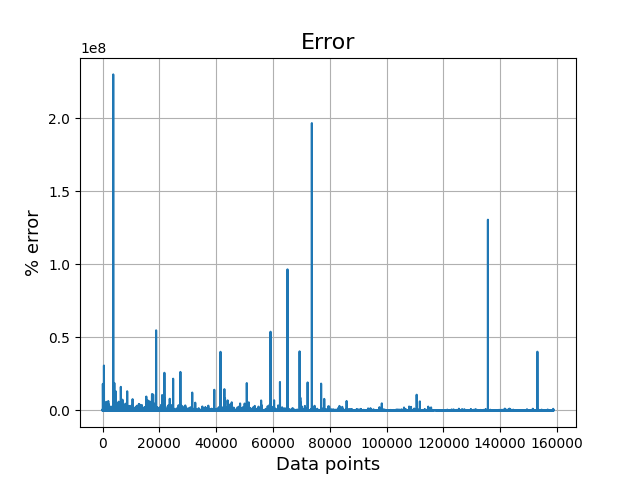
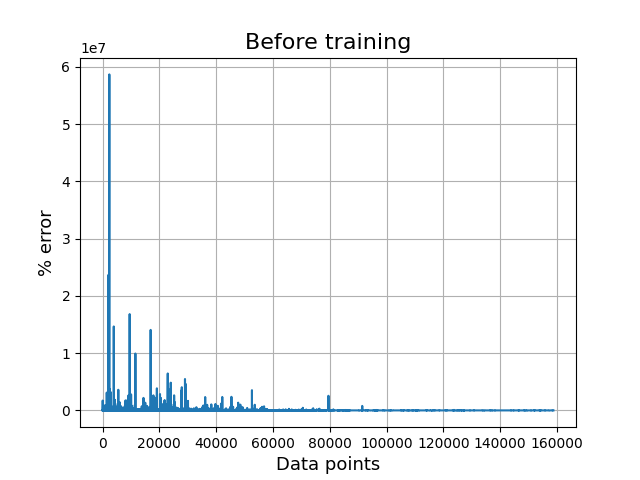
Fixed always printing "Testing neural network" issue

diff --git a/tools.py b/tools.py
@@ -296,7 +296,7 @@ class NeuralNetwork(torch.nn.Module):
 
     # Train neural network
     # Based on https://pytorch.org/tutorials/beginner/introyt/trainingyt.html ????? At least if it helps
-    def train_on_data(self, train_data: torch.Tensor, train_targets: torch.Tensor, epochs: int=100, lr: float=0.001) -> Union[torch.Tensor, int]:
+    def train_on_data(self, train_data: torch.Tensor, train_targets: torch.Tensor, epochs: int=100, lr: float=0.001, msg: str="Training neural network.......") -> Union[torch.Tensor, int]:
         '''
         Trains the neural network with the given training data and targets by:
         1. forward propagating an input feature through the network
@@ -308,6 +308,7 @@ class NeuralNetwork(torch.nn.Module):
         train_targets   : Size (N x 1) where N is the number of data points. The targets, price for each car.
         epochs          : Number of epochs that the training will run
         lr              : Learning rate
+        msg             : The printing message before the percent update
         
         output:
         loss_matrix     : Size (epochs) where the first value is the running loss after propagating through the whole train_data, the second value is the running loss after the second epoch etc.
@@ -375,7 +376,7 @@ class NeuralNetwork(torch.nn.Module):
                 # Print status for every whole percent
                 loop = n*epoch
                 if  loop % update_index == 0:
-                    print("{:.1f} %\r".format(100*loop/n_loops),end="Testing neural network........")
+                    print("{:.1f} %\r".format(100*loop/n_loops),end=msg)
 
             # End for n
             # Log running_loss to loss_matrix
@@ -393,7 +394,7 @@ class NeuralNetwork(torch.nn.Module):
 
     # Test neural network
     # Based on self.train_on_data()
-    def test_on_data(self, test_data: torch.Tensor, test_targets: torch.Tensor,eval_method: str = "MSE") -> torch.Tensor:
+    def test_on_data(self, test_data: torch.Tensor, test_targets: torch.Tensor,eval_method: str = "MSE", msg: str = "Testing neural network........") -> torch.Tensor:
         '''
         Tests the neural network with the given testing data and targets by:
         1. forward propagating test_data through the network
@@ -403,6 +404,7 @@ class NeuralNetwork(torch.nn.Module):
         test_data       : Size (N x D) where N is the number of data points and D is the number of dimensions. The training data.
         test_targets    : Size (N x 1) where N is the number of data points. The targets, price for each car.
         eval_method     : Which error evaluation method to use, options are "MSE" (for mean square) or "percent" for percent wise
+        msg             : The printing message before the percent update
         
         output:
         loss_matrix     : Size (N) where N is the number of data points and each value is the error between the test_target and the neural networks guess using test_data.
@@ -436,7 +438,7 @@ class NeuralNetwork(torch.nn.Module):
 
             # Print status for every whole percent
             if  n % n_print == 0:
-                print("{:.1f} %\r".format(100*n/N),end="Testing neural network........")
+                print("{:.1f} %\r".format(100*n/N),end=msg)
 
         # End for n
         # Return loss_matrix as torch.tensor

diff --git a/main.py b/main.py
@@ -20,7 +20,7 @@ print(" \r\nRunning main.py")
 #--------------------------------------------------------
 data_file_name = "train.csv"    # Which file to get the data from
 train_ratio = 0.05               # How high ratio of data should be used for training
-M = 12                          # Number of hidden nodes - 12 dimensional data
+M = 24                          # Number of hidden nodes - 12 dimensional data. - Decided via trial and error or heuristics according to Jón but usually more than number of data dimensions in order to not compress data.
 training_cycles = 1             # A.k.a "epochs" or how many times the training goes through each data point in the training data
 learning_rate = 0.01           # The learning rate for the neural network training
 test_eval_method = "percent"    # Which evaluation method for the error is used for testing. See tools.test_on_data for options
@@ -53,13 +53,19 @@ neural_network = tools.NeuralNetwork(D, M).to(tools.get_device())
 # weights = tools.init_weights(D, D) # Not used by torch so far?
 print(Fore.GREEN + "Complete" + Style.RESET_ALL)
 
-print("Estimated car price of first car (a.k.a. data point): " + str(int(neural_network(train_data[0]).item())))
+print("Neural network:")
+print(neural_network)
+
+print("Layer weights?:")
+print(neural_network.linear_layer_stack.l)
+
+print("First estimation of car price of first car (a.k.a. data point): " + str(int(neural_network(train_data[0]).item())))
 print("Supposed to be: " + str(int(train_targets[0].item())))
 
 # Test initial weights on test set, log errors
 initial_test_time = time.time()
 print("1st testing neural network....",end="")
-first_testing_loss = neural_network.test_on_data(test_data, test_targets,eval_method=test_eval_method)
+first_testing_loss = neural_network.test_on_data(test_data, test_targets,eval_method=test_eval_method, msg="1st testing neural network....")
 print(Fore.GREEN + "Complete" + Style.RESET_ALL)
 initial_test_time = time.time() - initial_test_time
 
@@ -105,4 +111,4 @@ print("Max error: {:.2} %".format(100*torch.max(testing_loss).item()))
 
 # Calculate runtime and print succesful run message
 runtime = time.time() - start_time
-print("\nmain.py ran succesfully in {:0.1f} minutes\n".format(runtime/60))
+print("\nmain.py ran succesfully in " + Fore.BLUE + " {:0.1f} minutes\n".format(runtime/60)  + Style.RESET_ALL)
